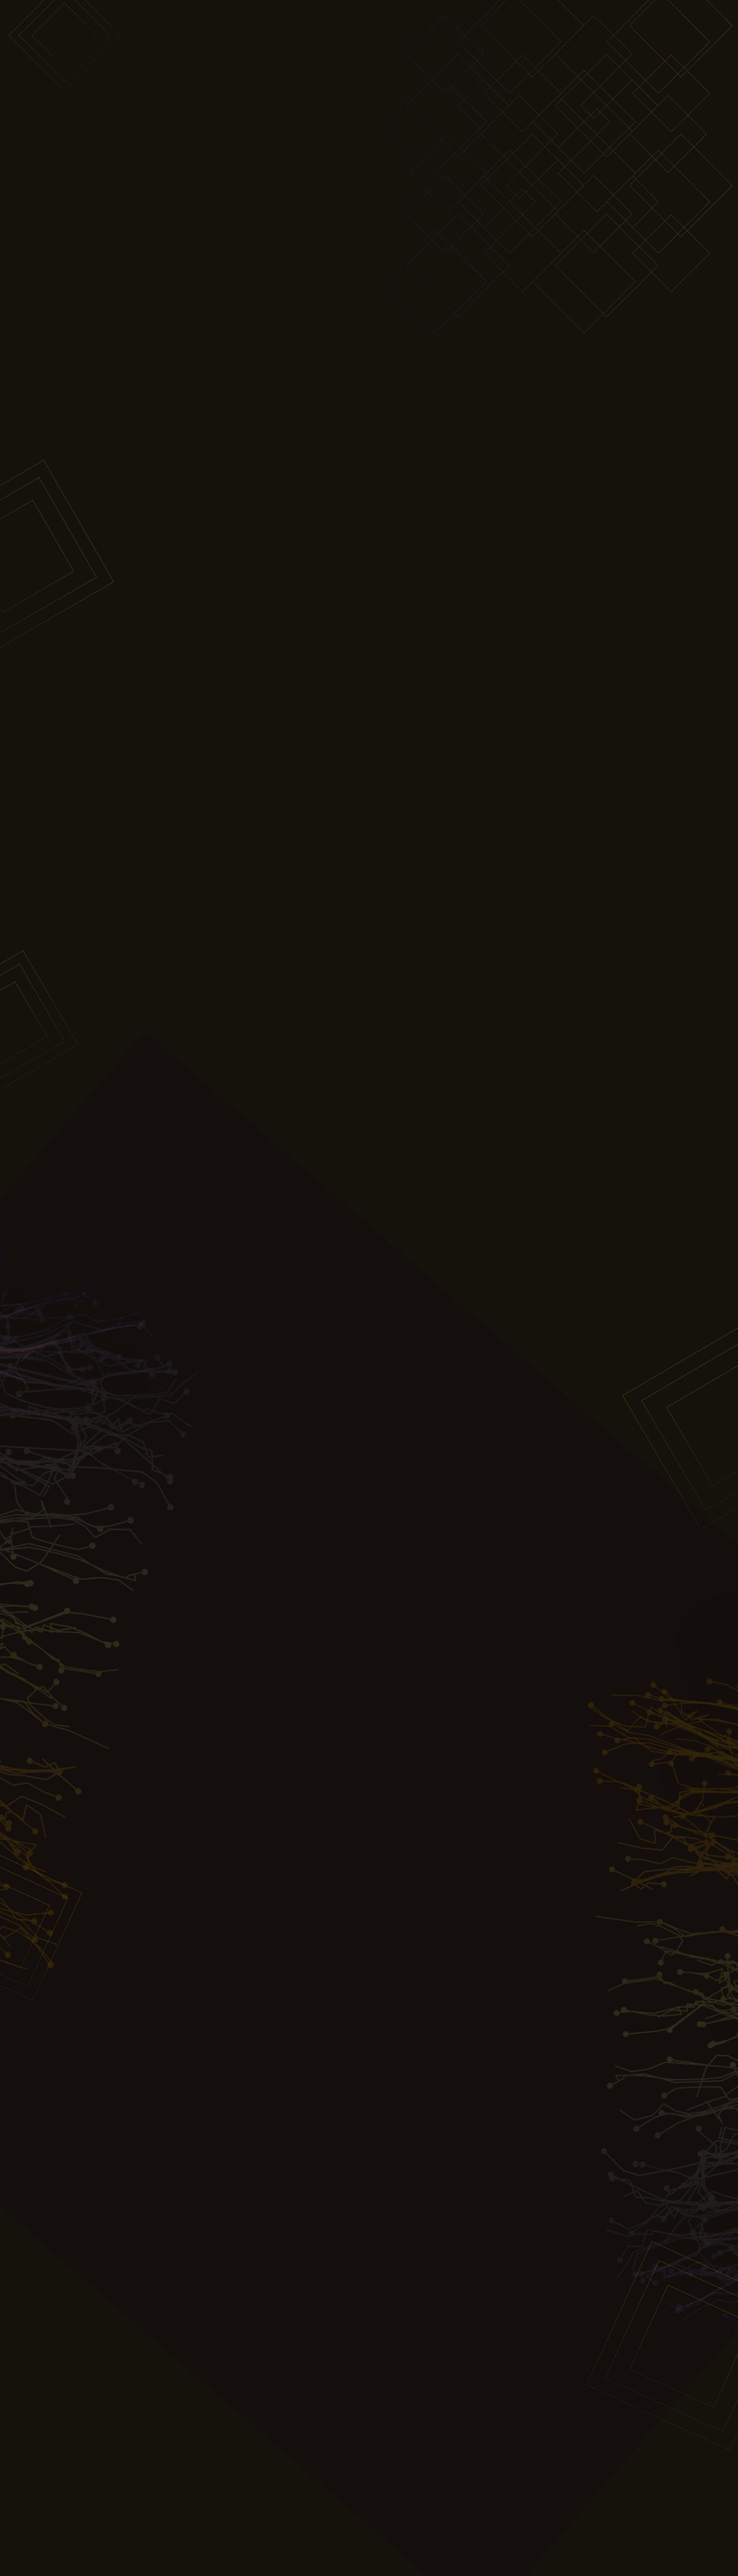
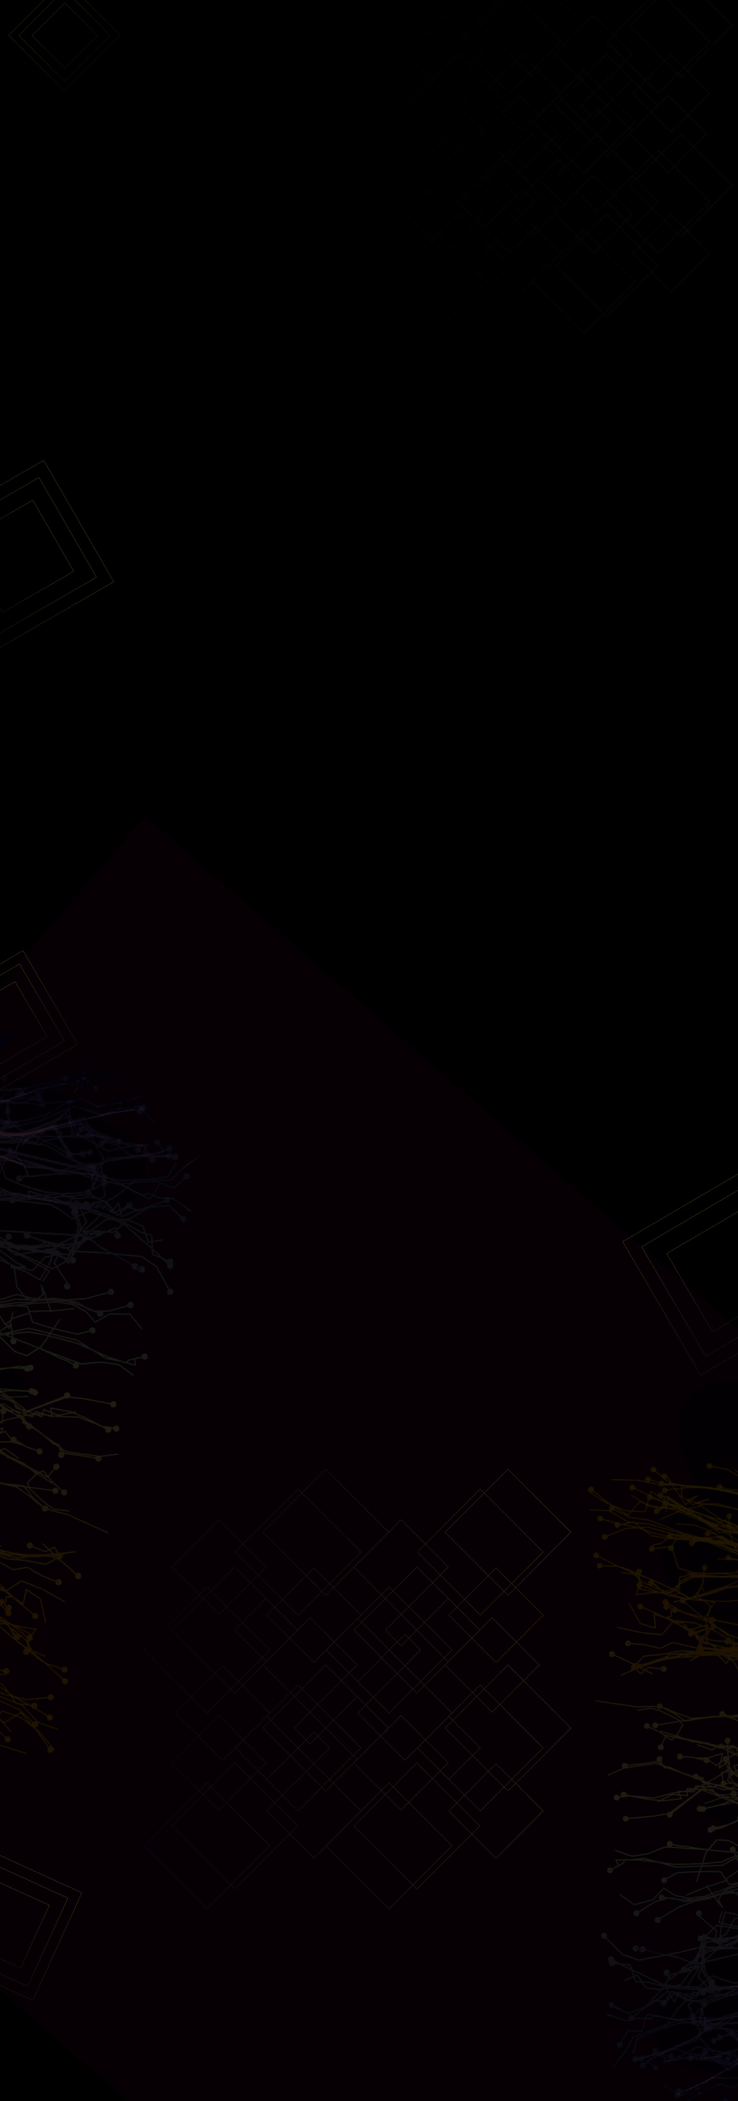
corrections

diff --git a/src/assets/css/App.scss b/src/assets/css/App.scss
@@ -165,7 +165,7 @@ body{
   top: 0;
   width: 100%;
   background: #2C2307;
-  padding: 10px 110px;
+  padding: 11.5px 110px;
   z-index: 99999;
   .desc_linl_pnt{
     margin: 0 auto;
@@ -505,7 +505,7 @@ body{
     .sadow_box{
       padding: 30px 0 35px 0;
       background: #000000;
-      box-shadow: 0px 15px 80px rgba(243, 186, 47, 0.2);
+      box-shadow: 0px 15px 80px rgba(255, 255, 255, 0.2);
       border-radius: 90px;
       h6{
         font-family: $f_primary;
@@ -528,7 +528,7 @@ body{
       display: flex;
       justify-content: center;
       max-width: 1110px;
-      padding: 50px 15px 85px 15px;
+      padding: 57px 15px 86px 15px;
       margin: 0 auto;
       p{
         font-family: $f_primary;
@@ -652,7 +652,7 @@ body{
       line-height: 28px;
       color: #FFFFFF;
       max-width: 1026px;
-      margin-bottom: 48px;
+      margin-bottom: 32px;
       b{
         color: #F3BA2F;
       }
@@ -885,7 +885,7 @@ body{
   }
 }
 .team_main{
-  margin-top: 220px;
+  margin-top: 66px;
   .team_grid_prnt{
     padding: 0 20px;
   }
@@ -912,7 +912,7 @@ body{
     .sadow_box{
       padding: 30px 0 35px 0;
       background: #000000;
-      box-shadow: 0px 15px 80px rgba(243, 186, 47, 0.2);
+      box-shadow: 0px 15px 80px rgba(255, 255, 255, 0.2);
       border-radius: 90px;
       h6{
         font-family: $f_primary;
@@ -1003,7 +1003,7 @@ body{
     }
   }
   .team_p_prnt{
-    margin-top: 55px;
+    margin-top: 57px;
     display: flex;
     align-items: center;
     min-height: 336px;
@@ -1091,7 +1091,7 @@ body{
   }
 }
 .articlesec_main{
-  margin-top: 140px;
+  margin-top: 145px;
   h6{
     font-family: $f_primary;
     font-weight: 400;
@@ -1117,7 +1117,8 @@ body{
   }
   .artcl_slider_inn{
     background: #000000;
-    box-shadow: 0px 13px 15px rgba(243, 186, 47, 0.2);
+    box-shadow: 0px 8px 25px rgba(255, 255, 255, 0.2);
+    // box-shadow: 0px 15px 80px rgba(255, 255, 255, 0.2);
     border-radius: 16px;
     max-width: 400px;
     margin: 0 auto;
@@ -1137,7 +1138,7 @@ body{
       h4{
         font-family: $f_primary;
         font-weight: 600;
-        font-size: 22px;
+        font-size: 21px;
         line-height: 34px;
         color: #FFFFFF;
       }
@@ -1199,16 +1200,16 @@ body{
           display: none;
         }
         &:hover{
-          width: 20px;
-          height: 20px;
+          width: 19px;
+          height: 19px;
         }
       }
     }
     .slick-active{
       button{
-        width: 20px;
+        width: 19px;
         background: #F3BA2F;
-        height: 20px;
+        height: 19px;
           &::before{
             display: none;
           }
@@ -1221,8 +1222,8 @@ body{
     bottom: -25px;
     height: 20px;
     width: 83px;
-    background: url(../img/prew_arrow.svg) no-repeat 0 0;
-    background-size: contain;
+    background: url(../img/prew_arrow.svg) no-repeat 0 0 !important;
+    background-size: contain !important;
     z-index: 2;
     left: calc(50% - 175px);
     &:hover{
@@ -1237,8 +1238,8 @@ body{
     bottom: -25px;
     height: 20px;
     width: 83px;
-    background: url(../img/next_arrow.svg) no-repeat 0 0;
-    background-size: contain;
+    background: url(../img/next_arrow.svg) no-repeat 0 0 !important;
+    background-size: contain !important;
     z-index: 2;
     right: calc(50% - 175px);
     &:hover{
@@ -1608,7 +1609,7 @@ body{
   margin-top: 140px;
   padding: 0 15px;
   .howtobuy_inn{
-    background: linear-gradient(263.53deg, #795F1D 30.66%, #302509 87.03%);
+    background: linear-gradient(107.86deg, #745916 9.08%, #F3BA2F 117.11%);
     border-radius: 90px;
     max-width: 1784px;
     min-height: 200px;
@@ -1637,8 +1638,8 @@ body{
           font-size: 16px;
           line-height: 24px;
           color: #FFFFFF;
-          margin-top: 25px;
-          margin-bottom: 34px;
+          margin-top: 28px;
+          margin-bottom: 38px;
         }
         a{
           font-family: $f_primary;
@@ -1762,8 +1763,9 @@ body{
   flex-direction: column;
   align-items: center;
   justify-content: center;
-  padding: 40px 0 25px 0;
-  background: url(../img/footer_bg.jpg) no-repeat center 0;
+  padding: 75px 0 25px 0;
+  // background: url(../img/footer_bg.jpg) no-repeat center 0;
+  background: transparent;
   background-size: cover;
   h4{
     font-family: $f_primary;
@@ -1774,7 +1776,7 @@ body{
     color: #F3BA2F;
   }
   .social_lin_prnt{
-    margin-top: 23px;
+    margin-top: 20px;
     display: flex;
     a{
       padding: 0;
@@ -1821,8 +1823,10 @@ body{
   }
 }
 .sidebar_main{
-  background: #000000;
-  box-shadow: 0px 15px 80px rgba(243, 186, 47, 0.2);
+  // background: #000000;
+  // box-shadow: 0px 15px 80px rgba(243, 186, 47, 0.2);
+  background: linear-gradient(180deg, #000000 0%, #202020 100%);
+  box-shadow: 0px 15px 80px rgba(255, 255, 255, 0.2);
 
 }
 .sidebar_logo_prnt{
@@ -1832,7 +1836,7 @@ body{
 }
 .dashboard_links_prnt{
   flex-direction: column;
-  padding: 20px 20px 10px 20px;
+  padding: 21px 20px 10px 17px;
   p{
     font-family: $f_primary;
     font-weight: 500;
@@ -1860,7 +1864,7 @@ body{
     }
     &:hover{
       img{
-        filter: invert(100%) sepia(100%) saturate(0%) hue-rotate(73deg) brightness(103%) contrast(103%);
+        filter: invert(0%) sepia(100%) saturate(0%) hue-rotate(73deg) brightness(103%) contrast(103%);
       }
       span{
         color: #ffffff;
@@ -1868,7 +1872,7 @@ body{
     }
     &.active {
       img{
-        filter: invert(100%) sepia(100%) saturate(0%) hue-rotate(73deg) brightness(103%) contrast(103%);
+        filter: invert(0%) sepia(100%) saturate(0%) hue-rotate(73deg) brightness(103%) contrast(103%);
       }
       span{
         color: #ffffff;
@@ -1887,6 +1891,7 @@ body{
     text-transform: uppercase;
     color: #FFFFFF;
     margin-bottom: 29px;
+    margin-top: 35px;
   }
   .socl_links_dash{
     flex-direction: column;
@@ -1911,7 +1916,7 @@ body{
       }
       &:hover{
         img{
-          filter: invert(100%) sepia(100%) saturate(0%) hue-rotate(73deg) brightness(103%) contrast(103%);
+          filter: invert(0%) sepia(100%) saturate(0%) hue-rotate(73deg) brightness(103%) contrast(103%);
         }
         span{
           color: #ffffff;
@@ -2074,9 +2079,10 @@ body{
       max-width: 729px;
       margin: 0 auto;
       border: 1px solid #F3BA2F;
-      box-shadow: 0px 0px 20px 2px rgba(243, 186, 47, 0.4);
+      // box-shadow: 0px 0px 20px 2px rgba(243, 186, 47, 0.4);
       border-radius: 16px;
       padding: 20px 20px 30px 30px;
+      opacity: 0.9;
       .flex_chart_header {
         display: flex;
         align-items: center;
@@ -2275,12 +2281,13 @@ body{
         box-shadow: none;
         width: 196.5px;
         height: 42px;
-        color: #353535;
+        color: #ffffff;
         font-family: $f_primary;
         font-weight: 700;
         font-size: 14px;
         line-height: 16px;
         text-align: center;
+        background: linear-gradient(107.86deg, #0E0A00 9.08%, #7E5A00 117.11%);
       }
       .staktab02{
         box-shadow: none;
@@ -2302,7 +2309,7 @@ body{
 
 .stakone_main{
   border: 1px solid #F3BA2F;
-  box-shadow: 0px 0px 30px 2px rgba(243, 186, 47, 0.5);
+  box-shadow: 0px 0px 13px 0px rgb(255 255 255 / 50%);
   border-radius: 16px;
   max-width: 652px;
   min-height: 550px;
@@ -2345,7 +2352,8 @@ body{
     text-align: center;
     color: #353535;
     border: 1px solid #F3BA2F;
-    background: #F3BA2F;
+    // background: #F3BA2F;
+    background: linear-gradient(107.86deg, #0E0A00 9.08%, #7E5A00 117.11%);
     border-radius: 60px;
     width: 100%;
     height: 48px;
@@ -2472,7 +2480,7 @@ body{
   max-width: 652px;
   margin: 0 auto;
   padding: 20px 20px 25px 20px;
-  background: #000000;
+  background: linear-gradient(360deg, #000000 0%, #202020 100%);
   border-radius: 16px;
     h4{
     font-family: $f_primary;
@@ -2505,7 +2513,7 @@ body{
         font-weight: 700;
         font-size: 18px;
         line-height: 21px;
-        background: #584412;
+        background: #1F1F1F;
         border-radius: 8px;
         color: #FFFFFF;
         margin-left: 8px;

diff --git a/src/pages/HomePage.tsx b/src/pages/HomePage.tsx
@@ -10,6 +10,7 @@ import ArticleSec from '../components/Home/ArticleSec';
 import RoadmapSec from '../components/Home/RoadmapSec';
 import HowToBuySec from '../components/Home/HowToBuySec';
 import AOS from 'aos';
+import Footer from '../layout/Footer';
 
 export default function HomePage() {
   AOS.init();
@@ -26,8 +27,9 @@ export default function HomePage() {
           <FeaturesSec />
           <TeamSec />
           <ArticleSec />
-          <RoadmapSec />
+          {/* <RoadmapSec /> */}
           <HowToBuySec />
+          <Footer/>
         </Box>
       </>
     </Layout>

diff --git a/src/pages/Layout.tsx b/src/pages/Layout.tsx
@@ -8,7 +8,7 @@ const Layout = (props:any) => {
     <div className={props.className}>
       <Header />
         {props.children}
-      <Footer />
+      {/* <Footer /> */}
     </div>
   );
 };
